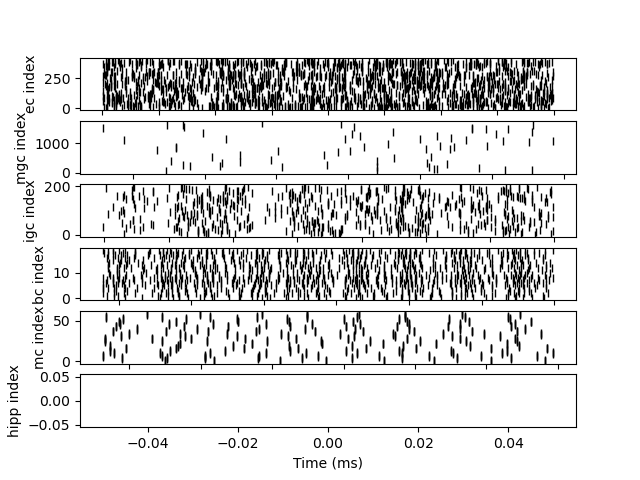
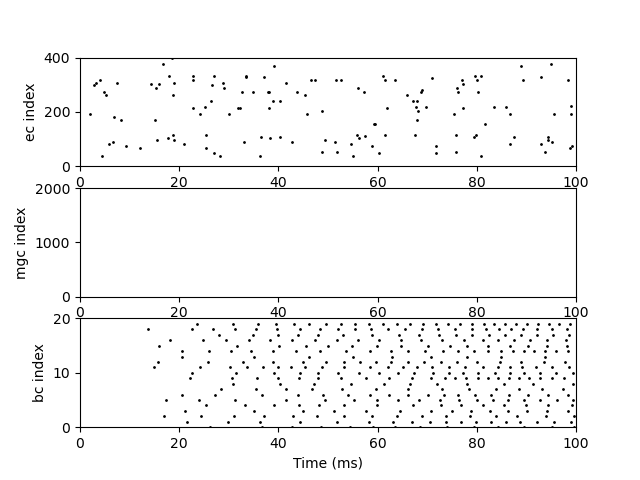
parallel

diff --git a/main.py b/main.py
@@ -1,46 +1,35 @@
 from brian2 import *
-from neurogenesis.utils.utils import get_neurons, get_neuron
-from neurogenesis.params.sim import break_time, stim_time
-from neurogenesis.models.general.network import network
+import tqdm_pathos
+import matplotlib.pyplot as plt
+from pathos.multiprocessing import ProcessingPool
+from os.path import join
+import numpy as np
+
 from neurogenesis.plotting.spike_trains import plot_spike_trains
-from neurogenesis.models.cells.ec import set_ec_pattern
-from neurogenesis.utils.patterns import generate_patterns
+from neurogenesis.utils.patterns import generate_activity_patterns
+from neurogenesis.sim import SimWrapper
 
-set_device('cpp_standalone', build_on_run=False)
 
-defaultclock.dt = 0.1 * ms
-
-trials = 30
+base_dir = './'
+results_dir = join(base_dir, 'res')
 
 def main():
-  start_scope()
+  set_device('cpp_standalone', build_on_run=False)
 
-  net = network()
+  seed(256)
+  np.random.seed(256)
+  defaultclock.dt = 0.1 * ms
 
-  print('Created network')
+  trials = 1  # 30
 
-  ec = net.get_neuron(net, 'ec')
-  mgc = net.get_neuron(net, 'mgc')
-  spike_monitors = [ec, mgc]
+  sim = SimWrapper()
 
-  net.add(spike_monitors)
+  patterns = [pattern for pattern in generate_activity_patterns() for _ in range(trials)]
 
-  net.store()
-
-  for trial in range(trials):
-    print(f'Trial {trial + 1} of {trials}')
-
-    patterns = generate_patterns()
-    for pattern in patterns:
-      net.restore()
-      set_ec_pattern(ec, pattern)
-
-      net.run(break_time + stim_time, report='text')
-
-  device.build()
-
-  # plot_spike_trains(net, spike_monitors)
-
+  spike_monitors = tqdm_pathos.map(sim.do_run, patterns)
+  
+  for i, r in enumerate(spike_monitors):
+    plot_spike_trains(r, i)
 
 if __name__ == '__main__':
   main()

diff --git a/sim/SimWrapper.py b/sim/SimWrapper.py
@@ -1,0 +1,41 @@
+from brian2 import *
+from brian2.devices import device_module
+
+from neurogenesis.utils.utils import get_neuron
+from neurogenesis.params.sim import break_time, stim_time
+from neurogenesis.models.general.network import network
+from neurogenesis.models.cells.ec import set_ec_pattern
+from neurogenesis.utils.patterns import generate_patterns
+
+
+class SimWrapper:
+  def __init__(self, report=None):
+    self.net = network()
+
+    ec = get_neuron(self.net, 'ec')
+    mgc = get_neuron(self.net, 'mgc')
+    bc = get_neuron(self.net, 'bc')
+    neurons = [ec, mgc, bc]
+    self.monitors = [SpikeMonitor(neuron) for neuron in neurons]
+    self.net.add(self.monitors)
+
+    self.activate_monitors(False)
+    self.net.run(break_time, report=report)
+    self.activate_monitors(True)
+    self.net.run(stim_time, report=report)
+
+    device.build(run=False)
+    self.device = get_device()
+
+  def activate_monitors(self, activate=True):
+    for spike_mon in self.monitors:
+      spike_mon.active = activate
+
+  def do_run(self, pattern):
+    device_module.active_device = self.device
+
+    self.device.run(
+      run_args={self.net['ec'].rates: pattern},
+    )
+
+    return self.monitors

diff --git a/plotting/spike_trains.py b/plotting/spike_trains.py
@@ -2,17 +2,18 @@ from brian2 import *
 
 from neurogenesis.params.sim import break_time, stim_time
 
-def plot_spike_trains(spike_monitors):
+def plot_spike_trains(spike_monitors, num):
   for spike_mon in spike_monitors:
     neuron = spike_mon.source
     print(f'Number of {neuron.name} that fired: {len(set(spike_mon.i))}')
 
+    print(spike_mon.i)
     plt.subplot(len(spike_monitors), 1, spike_monitors.index(spike_mon) + 1)
     plt.plot(spike_mon.t / ms, spike_mon.i, 'ok', markersize=1)
     plt.xlabel('Time (ms)')
     plt.ylabel(f'{neuron.name} index')
     plt.xlim(break_time / ms, stim_time / ms)
     plt.ylim(0, len(neuron))
-  plt.show()
-  # plt.savefig('neurogenesis/figures/spikes.png')
-  # plt.close()
+  # plt.show()
+  plt.savefig(f'neurogenesis/figures/spikes_{num}.png')
+  plt.close()

diff --git a/models/cells/ec.py b/models/cells/ec.py
@@ -1,11 +1,11 @@
 from brian2 import *
 import numpy as np
+from neurogenesis.params.general import ec_rate
 
-rate = 40 * Hz
 active_p = 0.1
 
 # Entorhinal cortex
-def create_ec(N, rate=rate, active_p=active_p, name='ec'):
+def create_ec(N, rate=0*Hz, active_p=active_p, name='ec'):
 
   active_neurons = np.random.choice(range(N), size=int(N*active_p), replace=False)
 
@@ -16,7 +16,7 @@ def create_ec(N, rate=rate, active_p=active_p, name='ec'):
 
   return (ec, active_neurons)
 
-def set_ec_pattern(ec, pattern, rate=rate):
+def set_ec_pattern(ec, pattern, rate=ec_rate):
   rates = np.zeros(ec.N) * Hz
   rates[pattern == 1] = rate
   ec.rates = rates

diff --git a/utils/patterns.py b/utils/patterns.py
@@ -1,4 +1,5 @@
 from neurogenesis.params.cells import cell_params
+from neurogenesis.params.general import ec_rate
 import numpy as np
 
 p = 0.1
@@ -42,6 +43,10 @@ def generate_patterns(p=p, N=N, step=step):
   similar_patterns = generate_similar_patterns(pattern, step)
   similar_patterns.append(pattern)
   return similar_patterns
+
+# Generates activity patterns
+def generate_activity_patterns(rate=ec_rate):
+  return generate_patterns() * rate
 
 # Percentage of active neurons in a pattern
 def activation_degree(pattern):

diff --git a/params/sim.py b/params/sim.py
@@ -1,4 +1,6 @@
 from brian2 import *
 
-break_time = 300 * ms   # Time for the network to settle (break stage)
-stim_time  = 1000 * ms  # Time for the network to be stimulated (stimulus stage)
+break_time = 0*ms#300 * ms   # Time for the network to settle (break stage)
+stim_time  = 100*ms#0 * ms  # Time for the network to be stimulated (stimulus stage)
+# break_time = 300 * ms   # Time for the network to settle (break stage)
+# stim_time  = 1000 * ms  # Time for the network to be stimulated (stimulus stage)

diff --git a/params/general.py b/params/general.py
@@ -1,3 +1,6 @@
+from brian2 import *
+
 has_igc    = False                    # Whether the network has immature GCs
 N_lamellae = 20                       # Number of lamellae
 igc_conn   = 1.0 if has_igc else 0.0  # IGC connection probability
+ec_rate    = 40 * Hz                  # Rate of EC neurons

diff --git a/sim/__init__.py b/sim/__init__.py
@@ -1,0 +1,1 @@
+from neurogenesis.sim.SimWrapper import SimWrapper
